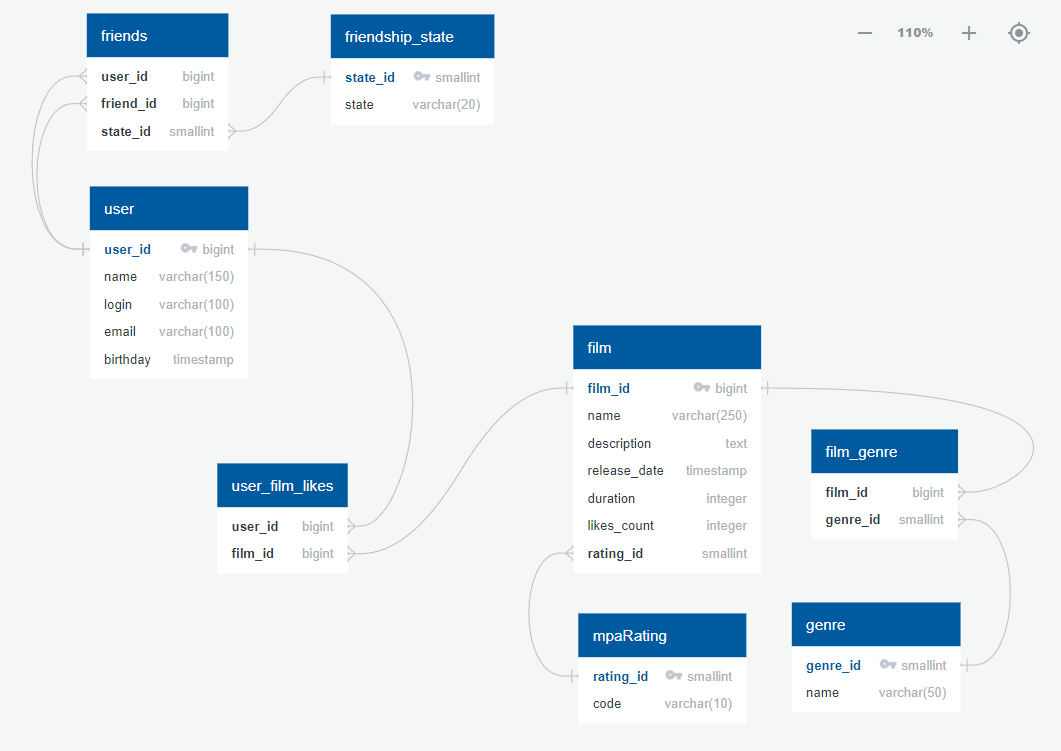
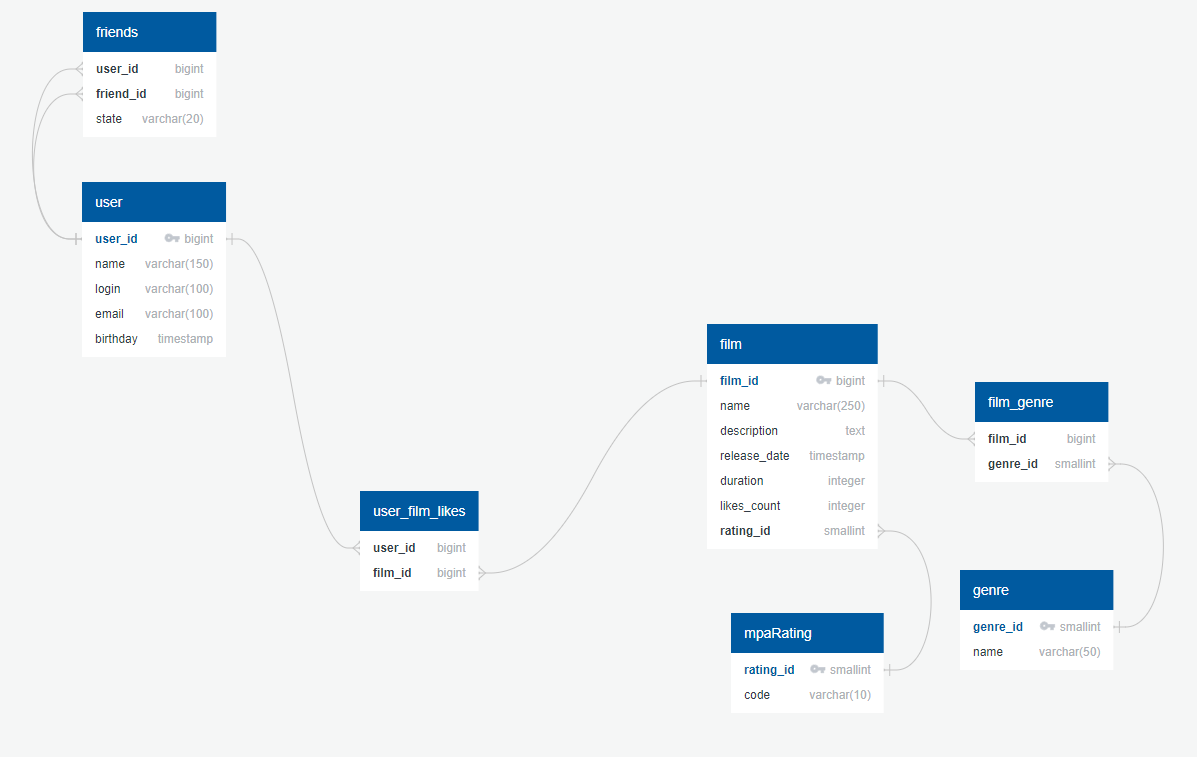
Исправление readme

diff --git a/README.md b/README.md
@@ -6,7 +6,6 @@
 БД состоит из следующих таблиц:
 * user (пользователи)
 * friend (список друзей пользователей)
-* friendship_state ("статус" дружбы)
 * film (фильмы)
 * mpaRating (рейтинг MPA)
 * genre (жанры фильма)
@@ -46,8 +45,7 @@ WHERE g.name = 'Comedy';
 SELECT *
 FROM user
 WHERE user_id IN (
-    SELECT f.friend_id
-    FROM friends f
-    JOIN friendship_state fs ON f.state_id = fs.state_id
-    WHERE f.user_id = 3 AND fs.state = 'ACCEPTED')
+    SELECT friend_id
+    FROM friends
+    WHERE user_id = 3 AND state = 'ACCEPTED')
 ```
